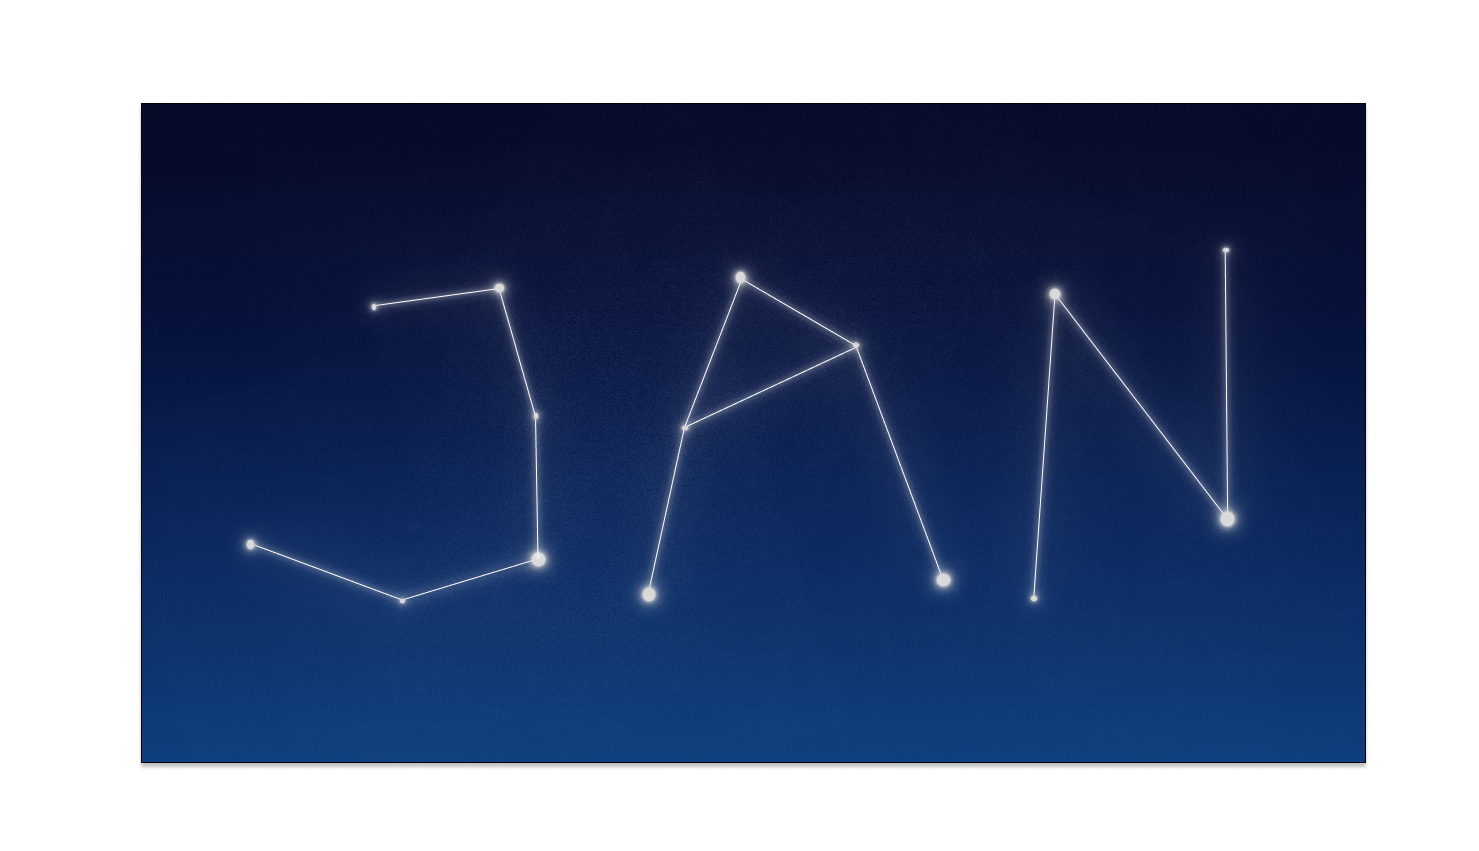
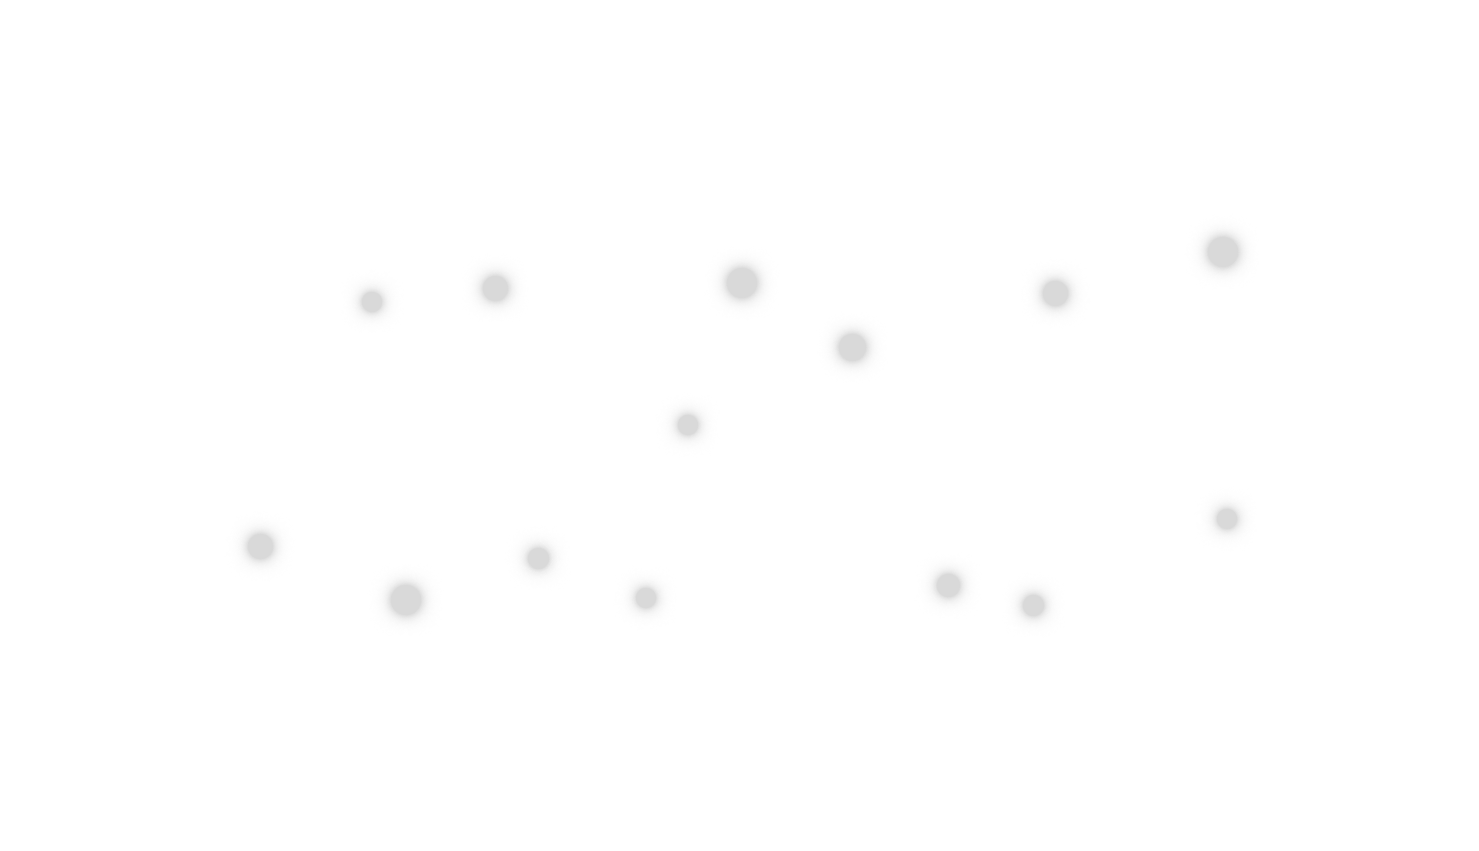
more more images

diff --git a/src/routes/+page.svelte b/src/routes/+page.svelte
@@ -3,18 +3,18 @@
 <script>
     import "$lib/data.js";
     const months = [   
-    { name: "Jan", num: 1, days: 31, img: "months/1BGRemove.png"},   
-    { name: "Feb", num: 2, days: 28, img: "months/2BGRemove.png"},   
-    { name: "Mar", num: 3, days: 31, img: "months/3BGRemove.png"},   
-    { name: "Apr", num: 4, days: 30, img: "months/4BGRemove.png"},   
-    { name: "May", num: 5, days: 31, img: "months/5BGRemove.png"},   
-    { name: "Jun", num: 6, days: 30, img: "months/6BGRemove.png"},   
-    { name: "Jul", num: 7, days: 31, img: "months/7BGRemove.png"},   
-    { name: "Aug", num: 8, days: 31, img: "months/8BGRemove.png"},   
-    { name: "Sep", num: 9, days: 30, img: "months/9BGRemove.png"},   
-    { name: "Oct", num: 10, days: 31, img: "months/10BGRemove.png"},  
-    { name: "Nov", num: 11, days: 30, img: "months/11BGRemove.png"},   
-    { name: "Dec", num: 12, days: 31, img: "months/12BGRemove.png"} ]
+    { name: "Jan", num: 1, days: 31, img: "months/1.png"},   
+    { name: "Feb", num: 2, days: 28, img: "months/2.png"},   
+    { name: "Mar", num: 3, days: 31, img: "months/3.png"},   
+    { name: "Apr", num: 4, days: 30, img: "months/4.png"},   
+    { name: "May", num: 5, days: 31, img: "months/5.png"},   
+    { name: "Jun", num: 6, days: 30, img: "months/6.png"},   
+    { name: "Jul", num: 7, days: 31, img: "months/7.png"},   
+    { name: "Aug", num: 8, days: 31, img: "months/8.png"},   
+    { name: "Sep", num: 9, days: 30, img: "months/9.png"},   
+    { name: "Oct", num: 10, days: 31, img: "months/10.png"},  
+    { name: "Nov", num: 11, days: 30, img: "months/11.png"},   
+    { name: "Dec", num: 12, days: 31, img: "months/12.png"} ]
 
 const currentYear = new Date().getFullYear();
 
